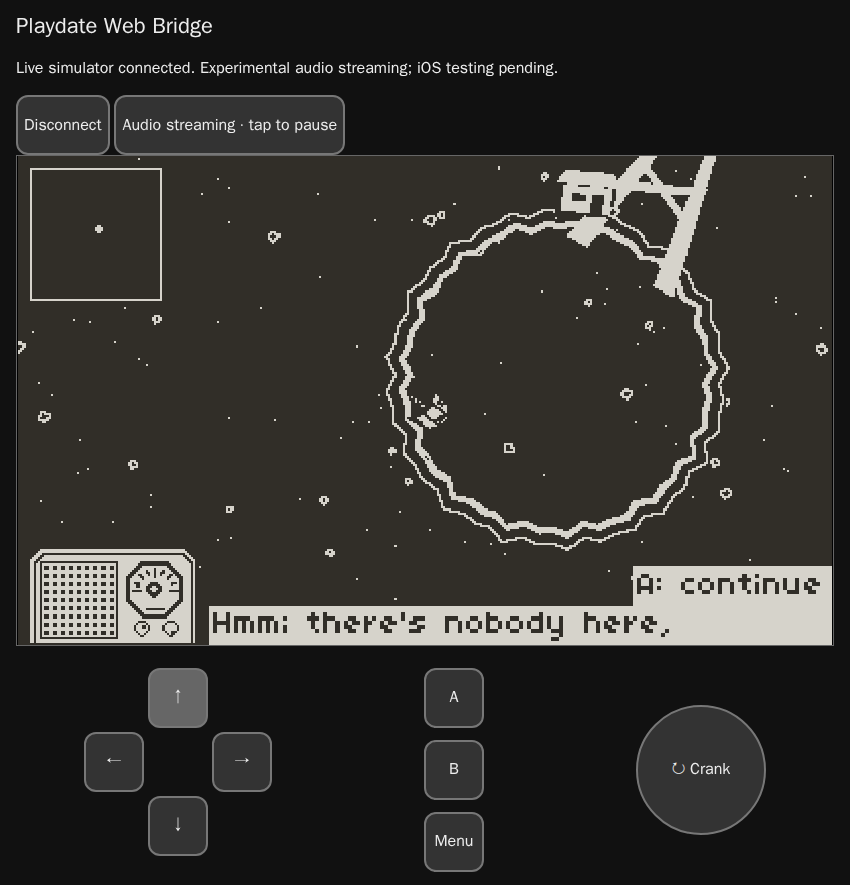
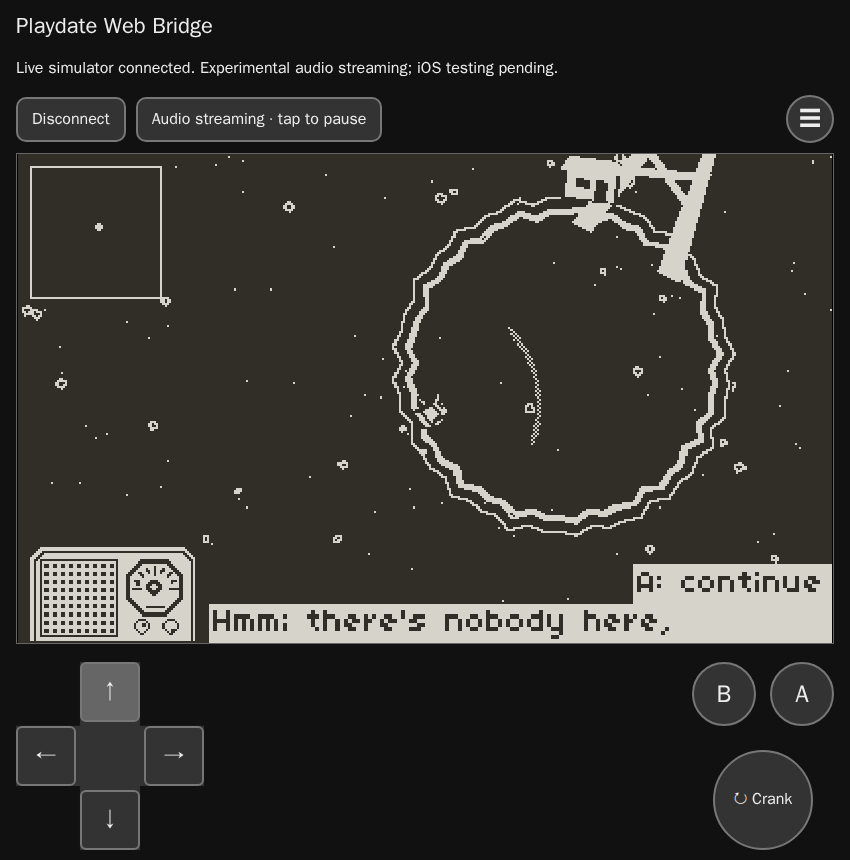
Match browser controls to Playdate hardware layout

diff --git a/web/index.html b/web/index.html
@@ -4,33 +4,61 @@
 <meta name="viewport" content="width=device-width,initial-scale=1,viewport-fit=cover">
 <title>Playdate Web Bridge</title>
 <style>
-*{box-sizing:border-box}body{margin:auto;max-width:850px;padding:16px;padding-bottom:max(16px,env(safe-area-inset-bottom));background:#111;color:#eee;font:16px system-ui}h1{font-size:22px}button{font:inherit;color:inherit;background:#333;border:2px solid #777;border-radius:12px;min-width:60px;min-height:60px;touch-action:none;user-select:none;-webkit-user-select:none}button:active{background:#666}#screen{width:100%;aspect-ratio:5/3;object-fit:contain;background:#000;image-rendering:pixelated;border:1px solid #666}.controls{display:flex;flex-wrap:wrap;justify-content:space-around;gap:16px;margin-top:16px}.dpad{display:grid;grid-template:repeat(3,60px)/repeat(3,60px);gap:4px}.up{grid-area:1/2}.left{grid-area:2/1}.right{grid-area:2/3}.down{grid-area:3/2}.actions{display:flex;flex-direction:column;gap:12px}#crank{border-radius:50%;width:130px;height:130px;align-self:center}p{line-height:1.4}.muted{color:#bbb}button:disabled{opacity:.45}
-
+:root{--pad-size:60px;--pad-gap:4px;--action-size:64px;--action-gap:14px;--crank-size:100px}
+*{box-sizing:border-box}
+body{margin:auto;max-width:850px;padding:16px;padding-bottom:max(16px,env(safe-area-inset-bottom));background:#111;color:#eee;font:16px system-ui}
+h1{font-size:22px}
+button{font:inherit;color:inherit;background:#333;border:2px solid #777;border-radius:10px;min-width:44px;min-height:44px;touch-action:none;user-select:none;-webkit-user-select:none}
+button:active{background:#666}
+button:disabled{opacity:.45}
+.toolbar{display:grid;grid-template-columns:auto minmax(0,1fr) 48px;gap:10px;align-items:center;margin-bottom:10px}
+#connect,#sound{padding:10px 14px}
+#sound{justify-self:start}
+.menu-button{width:48px;height:48px;border-radius:50%;font-size:22px;padding:0;justify-self:end}
+#screen{display:block;width:100%;aspect-ratio:5/3;object-fit:contain;background:#000;image-rendering:pixelated;border:1px solid #666}
+.controls{display:grid;grid-template-columns:minmax(0,1fr) minmax(0,1fr);grid-template-rows:var(--action-size) 1fr;column-gap:24px;row-gap:14px;margin-top:18px}
+.dpad{position:relative;display:grid;grid-template:repeat(3,var(--pad-size))/repeat(3,var(--pad-size));gap:var(--pad-gap);grid-column:1;grid-row:1/3;align-self:start;justify-self:start}
+.dpad::before{content:"";position:absolute;inset:0;background:#333;clip-path:polygon(34% 0,66% 0,66% 34%,100% 34%,100% 66%,66% 66%,66% 100%,34% 100%,34% 66%,0 66%,0 34%,34% 34%)}
+.dpad button{position:relative;z-index:1;width:var(--pad-size);height:var(--pad-size);padding:0;border-radius:6px;font-size:22px}
+.up{grid-area:1/2}.left{grid-area:2/1}.right{grid-area:2/3}.down{grid-area:3/2}
+.actions{display:flex;gap:var(--action-gap);grid-column:2;grid-row:1;align-self:start;justify-self:end}
+.actions button{width:var(--action-size);height:var(--action-size);border-radius:50%;padding:0;font-size:24px;font-weight:600}
+#crank{grid-column:2;grid-row:2;justify-self:end;align-self:end;margin-right:calc((2 * var(--action-size) + var(--action-gap) - var(--crank-size)) / 2);border-radius:50%;width:var(--crank-size);height:var(--crank-size);padding:0}
+p{line-height:1.4}.muted{color:#bbb}
 @media(max-width:600px){
+ :root{--pad-size:44px;--pad-gap:3px;--action-size:48px;--action-gap:12px;--crank-size:76px}
  body{padding:10px;padding-bottom:max(10px,env(safe-area-inset-bottom))}
- h1{font-size:18px;margin:4px 0}#status{font-size:13px;margin:6px 0;min-height:36px}
- button{min-width:44px;min-height:44px;font-size:14px}
- .controls{gap:6px;margin-top:8px;flex-wrap:nowrap;align-items:center}
- .dpad{grid-template:repeat(3,44px)/repeat(3,44px);gap:3px;flex-shrink:0}
- .actions{gap:8px;flex:1}.actions button{font-size:12px;padding:2px}
- #crank{width:88px;height:88px;min-width:88px}
+ h1{font-size:18px;margin:4px 0}
+ #status{font-size:13px;margin:6px 0;min-height:36px}
+ .toolbar{grid-template-columns:auto minmax(0,1fr) 44px;gap:6px;margin-bottom:8px}
+ #connect,#sound{font-size:13px;line-height:1.25;padding:6px 8px}
+ .menu-button{width:44px;height:44px}
+ .controls{column-gap:16px;row-gap:10px;margin-top:10px}
+ .actions button{font-size:20px}
+ #crank{font-size:13px}
 }
 @media(orientation:landscape) and (max-height:500px){
- body{max-width:none;padding:8px max(12px,env(safe-area-inset-right)) 8px max(12px,env(safe-area-inset-left));display:grid;grid-template-columns:minmax(0,1.2fr) minmax(300px,1fr);gap:6px 12px}
- h1{display:none}#status{grid-column:1/-1;font-size:12px;margin:0;min-height:28px}
- button{min-width:44px;min-height:44px;font-size:13px}
- #connect,#sound{grid-row:2}#screen{grid-column:1;grid-row:3;max-height:calc(100svh - 106px)}
- .controls{grid-column:2;grid-row:3;margin:0;gap:6px;flex-wrap:nowrap;align-items:center}
- .dpad{grid-template:repeat(3,44px)/repeat(3,44px);gap:3px;flex-shrink:0}
- .actions{gap:8px;flex:1}.actions button{font-size:12px;padding:2px}
- #crank{width:80px;height:80px;min-width:80px}
+ :root{--pad-size:44px;--pad-gap:3px;--action-size:48px;--action-gap:12px;--crank-size:76px}
+ body{max-width:none;padding:8px max(12px,env(safe-area-inset-right)) 8px max(12px,env(safe-area-inset-left));display:grid;grid-template-columns:minmax(0,1.2fr) minmax(250px,1fr);gap:6px 16px}
+ h1{display:none}
+ #status{grid-column:1/-1;font-size:12px;margin:0;min-height:28px;line-height:1.3}
+ .toolbar{grid-column:1/-1;grid-row:2;grid-template-columns:auto minmax(0,1fr) 44px;gap:6px;margin:0}
+ #connect,#sound{font-size:13px;line-height:1.25;padding:6px 8px}
+ .menu-button{width:44px;height:44px}
+ #screen{grid-column:1;grid-row:3;max-height:calc(100svh - 108px)}
+ .controls{grid-column:2;grid-row:3;align-self:start;column-gap:4px;row-gap:10px;margin:0}
+ .actions button{font-size:20px}
+ #crank{font-size:13px}
  body>p:not(#status){grid-column:1/-1}
 }
 </style>
 <h1>Playdate Web Bridge</h1>
 <p id="status" role="status">Not connected. Tap Connect to join the shared simulator.</p>
+<div class="toolbar">
 <button id="connect">Connect</button>
 <button id="sound">Enable audio</button>
+<button class="menu-button" data-button="menu" aria-label="Menu" title="Menu">☰</button>
+</div>
 <img id="screen" alt="Live simulator display appears after connection">
 <div class="controls">
 <div class="dpad" aria-label="D-pad">
@@ -39,7 +67,7 @@
 <button class="right" data-button="right" aria-label="Right">→</button>
 <button class="down" data-button="down" aria-label="Down">↓</button>
 </div>
-<div class="actions"><button data-button="a">A</button><button data-button="b">B</button><button data-button="menu">Menu</button></div>
+<div class="actions" aria-label="Action buttons"><button data-button="b" aria-label="B">B</button><button data-button="a" aria-label="A">A</button></div>
 <button id="crank" aria-label="Drag around the dial to turn the crank">↻ Crank</button>
 </div>
 <p>Use the D-pad, A/B, Menu, and draggable crank to control the game. Control behavior depends on the loaded game. One browser can control the shared simulator at a time.</p>

diff --git a/docs/usage.md b/docs/usage.md
@@ -41,7 +41,7 @@ If you choose client port 8081, use `ssh -N -L 8081:127.0.0.1:8080 user@linux-ho
 
 ## Controls, sound, and saves
 
-Tap **Connect** to take control. Use the D-pad, A/B, Menu, and draggable crank; their actions follow the loaded game. One browser controls the session at a time. Disconnects and expired inputs release held controls.
+Tap **Connect** to take control. The D-pad sits on the left, with round B/A buttons on the right and Menu above the screen at the right edge. The crank has its own dial. Button actions follow the loaded game. One browser controls the session at a time. Disconnects and expired inputs release held controls.
 
 Tap **Enable audio** to unlock [browser audio playback](https://developer.mozilla.org/en-US/docs/Web/API/Web_Audio_API/Best_practices). Tap the sound button again to pause/resume. Boost starts at 0 dB; raise it for quiet output. Higher boost can distort loud material. Native simulator menus pause SDK sound and resume it on close.
 

diff --git a/docs/development.md b/docs/development.md
@@ -12,6 +12,11 @@ PLAYDATE_BRIDGE_TEST_X11=1 go test -race ./...
 
 The last command includes a bounded private-Xvfb transport check. Tests cover input edges and crank gestures, isolated saves, process cleanup, image conversion, WebSocket/controller handling, and bounded audio playback.
 
+With Playwright installed, `node tests/layout.mjs` checks control placement,
+44px touch targets, and portrait/landscape fit across nine viewports. Set
+`PLAYDATE_BRIDGE_PLAYWRIGHT` or `PLAYDATE_BRIDGE_CHROMIUM` to select local
+Playwright and Chromium installations. Screenshots are written to `build/layout/`.
+
 ## Compatibility
 
 The backend is calibrated for the Linux Playdate SDK 3.1.2 default 479×706 simulator layout. Validation covers Starfield desktop-browser use and an SDK FlippyFish startup/rendering smoke test. Broader game, SDK-layout, and mobile-device compatibility is under evaluation.
